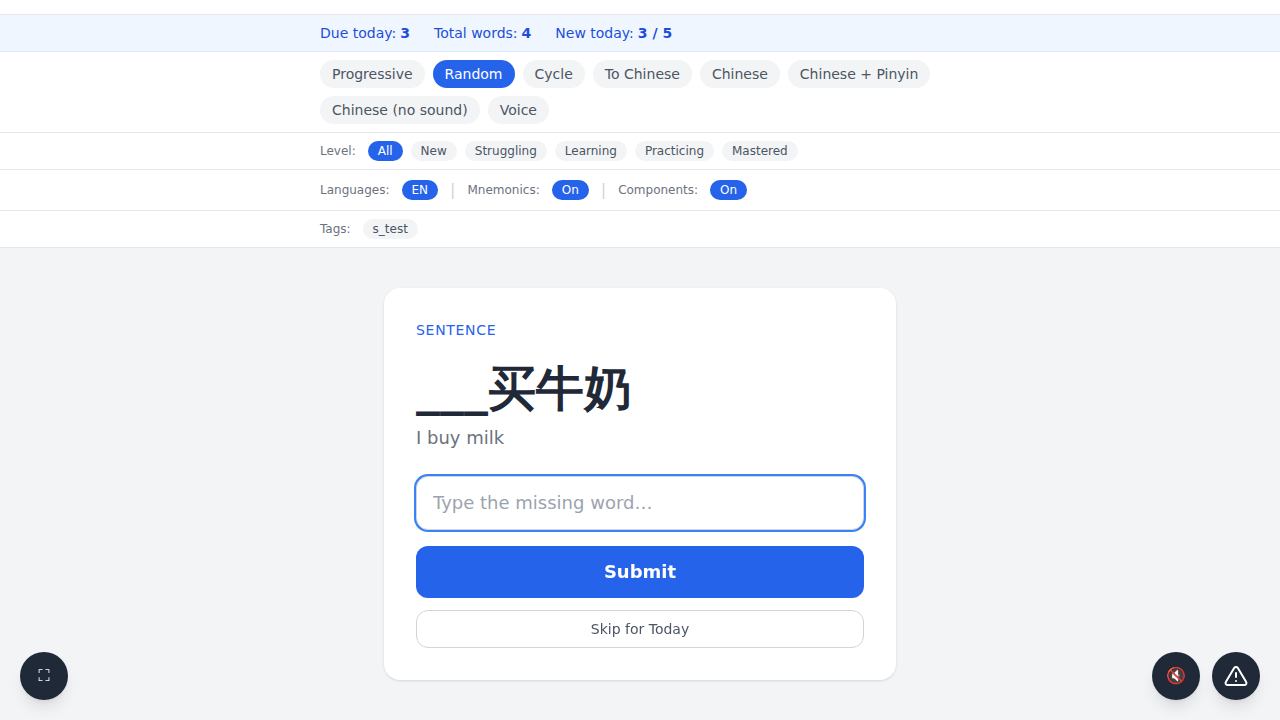
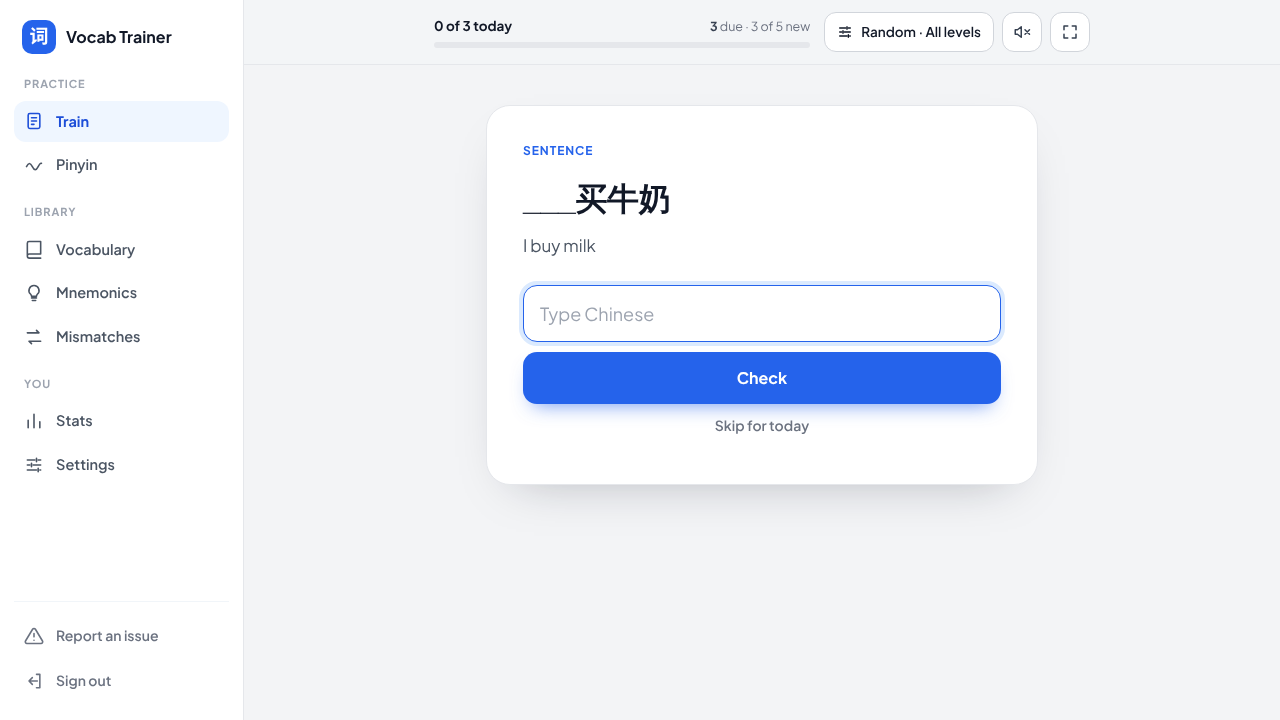
Name the answer language on sentence cards (#621)
Sentence cards get answer_lang (zh, or the language of the blanked
translation), and the input placeholder says Type Chinese / English /
German instead of the generic "Type the missing word".

Claude-Session: https://claude.ai/code/session_01FXi8bULmnW4PmajAHiKwyw

diff --git a/service/frontend/train-card.test.js b/service/frontend/train-card.test.js
@@ -2,7 +2,8 @@ import { describe, it, expect, vi, beforeEach, afterEach } from 'vitest';
 
 // ── Answer input placeholder ───────────────────────────────────────────────
 // Mirrors the i18n key selection in showCard(): sentence fill-in-the-blank
-// cards get a placeholder telling the user to type the missing word;
+// cards name the language of the blanked side, sent as answer_lang (issue
+// #621), and fall back to "type the missing word" without one;
 // transl_to_zh word cards ask for the Chinese; other word cards and component
 // cards name the answer language (issue #542); hmm cards keep the generic
 // answer placeholder.
@@ -14,7 +15,10 @@ function translPlaceholderKey(answerLang) {
 }
 
 function placeholderKeyForCard(cardType, mode, answerLang) {
-  if (cardType === 'sentence') return 'card.placeholderSentence';
+  if (cardType === 'sentence') {
+    if (answerLang === 'zh') return 'card.placeholderZh';
+    return ANSWER_LANG_PLACEHOLDERS.includes(answerLang) ? translPlaceholderKey(answerLang) : 'card.placeholderSentence';
+  }
   if (!cardType && (mode === 'transl_to_zh' || mode === 'voice_to_zh')) return 'card.placeholderZh';
   if (!cardType || cardType === 'component') return translPlaceholderKey(answerLang);
   return 'card.placeholder';
@@ -34,8 +38,18 @@ describe('translPlaceholderKey', () => {
 });
 
 describe('placeholderKeyForCard', () => {
-  it('uses the sentence-specific placeholder key for sentence cards', () => {
-    expect(placeholderKeyForCard('sentence', 'zh_to_transl', 'de')).toBe('card.placeholderSentence');
+  it('asks for the Chinese on sentence cards with a Chinese blank (issue #621)', () => {
+    expect(placeholderKeyForCard('sentence', 'transl_to_zh', 'zh')).toBe('card.placeholderZh');
+  });
+
+  it('names the language of the blanked translation on sentence cards (issue #621)', () => {
+    expect(placeholderKeyForCard('sentence', 'zh_to_transl', 'de')).toBe('card.placeholderTransl.de');
+    expect(placeholderKeyForCard('sentence', 'zh_to_transl', 'en')).toBe('card.placeholderTransl.en');
+  });
+
+  it('falls back to "type the missing word" on sentence cards without a known answer language', () => {
+    expect(placeholderKeyForCard('sentence', 'zh_to_transl', undefined)).toBe('card.placeholderSentence');
+    expect(placeholderKeyForCard('sentence', 'zh_to_transl', 'fr')).toBe('card.placeholderSentence');
   });
 
   it('asks for the Chinese on transl_to_zh word cards', () => {

diff --git a/e2e/sentence-blank.spec.js b/e2e/sentence-blank.spec.js
@@ -94,9 +94,9 @@ test.describe('Sentence-blank training mode', () => {
     await expect(page.locator('#sentence-context')).toBeVisible();
     await expect(page.locator('#sentence-context')).toContainText('I buy milk');
     await expect(page.locator('#prompt-word')).toContainText('___');
-    // Issue #445: the shared answer input's placeholder must say "type the
-    // missing word" for sentence-blank cards, not the generic answer prompt.
-    await expect(page.locator('#answer-input')).toHaveAttribute('placeholder', 'Type the missing word…');
+    // Issue #621: the placeholder names the language to type (here the zh
+    // sentence has the blank).
+    await expect(page.locator('#answer-input')).toHaveAttribute('placeholder', 'Type Chinese');
     await captureForPR(page, 'sentence-placeholder');
 
     await page.locator('#answer-input').fill(correctZh);
@@ -104,6 +104,25 @@ test.describe('Sentence-blank training mode', () => {
 
     await expect(page.locator('#result-icon')).toBeVisible({ timeout: 8_000 });
     await expect(page.locator('#result-icon')).toHaveText('Correct');
+  });
+
+  test('a translation blank names the language of the blanked sentence (issue #621)', async ({ page }) => {
+    const { idToZh } = await registerUserWithSentence(page);
+    const wordID = Number(Object.keys(idToZh).find(id => idToZh[id] === '买'));
+    await page.route('**/api/quiz/next*', route => route.fulfill({
+      status: 200,
+      contentType: 'application/json',
+      body: JSON.stringify({
+        card_type: 'sentence', word_id: wordID, mode: 'zh_to_transl', answer_lang: 'de',
+        sentence_blank: 'Ich ___ Milch', sentence_context: '我买牛奶',
+      }),
+    }));
+
+    await page.goto('/train');
+    await expect(page.locator('#card-area')).toBeVisible({ timeout: 12_000 });
+    await expect(page.locator('#prompt-word')).toHaveText('Ich ___ Milch');
+    await expect(page.locator('#answer-input')).toHaveAttribute('placeholder', 'Type German');
+    await captureForPR(page, 'sentence-placeholder-german');
   });
 
   test('a wrong answer to a sentence-blank card shows Wrong and the correct word', async ({ page }) => {

diff --git a/service/frontend/train-card.js b/service/frontend/train-card.js
@@ -492,8 +492,12 @@ function translPlaceholderKey(answerLang) {
   return ANSWER_LANG_PLACEHOLDERS.includes(answerLang) ? `card.placeholderTransl.${answerLang}` : 'card.placeholder';
 }
 
+// Sentence cards name the language of the blanked side (issue #621).
 function placeholderKeyForCard(cardType, mode, answerLang) {
-  if (cardType === 'sentence') return 'card.placeholderSentence';
+  if (cardType === 'sentence') {
+    if (answerLang === 'zh') return 'card.placeholderZh';
+    return ANSWER_LANG_PLACEHOLDERS.includes(answerLang) ? translPlaceholderKey(answerLang) : 'card.placeholderSentence';
+  }
   if (!cardType && isZhAnswerMode(mode)) return 'card.placeholderZh';
   if (!cardType || cardType === 'component') return translPlaceholderKey(answerLang);
   return 'card.placeholder';
@@ -506,7 +510,8 @@ function currentAnswerLang() {
 
 function showCard() {
   show('card-area');
-  $('answer-input').placeholder = t(placeholderKeyForCard(currentCard.card_type, currentCard.mode, currentAnswerLang()));
+  const answerLang = currentCard.card_type === 'sentence' ? currentCard.answer_lang : currentAnswerLang();
+  $('answer-input').placeholder = t(placeholderKeyForCard(currentCard.card_type, currentCard.mode, answerLang));
   // Prompt size: Hanzi prompts are larger, sentence prompts smaller.
   const promptEl = $('prompt-word');
   const zhPrompt = currentCard.card_type === 'component' ||

diff --git a/service/db/sentences_test.go b/service/db/sentences_test.go
@@ -295,6 +295,9 @@ func TestNextSentenceBlankCard_ZhBlankDirection(t *testing.T) {
 	if card.SentenceContext != "I buy milk" {
 		t.Errorf("want context %q, got %q", "I buy milk", card.SentenceContext)
 	}
+	if card.AnswerLang != "zh" {
+		t.Errorf("want answer_lang=zh, got %q", card.AnswerLang)
+	}
 	assertFullSentence(t, card, sentence)
 }
 
@@ -349,7 +352,50 @@ func TestNextSentenceBlankCard_TranslationBlankDirection(t *testing.T) {
 	if card.SentenceContext != "我买牛奶" {
 		t.Errorf("want context 我买牛奶, got %q", card.SentenceContext)
 	}
+	if card.AnswerLang != "en" {
+		t.Errorf("want answer_lang=en, got %q", card.AnswerLang)
+	}
 	assertFullSentence(t, card, sentence)
+}
+
+func TestNextSentenceBlankCard_TranslationBlankInSecondLanguage_AnswerLangDE(t *testing.T) {
+	// Issue #621: with EN and DE selected, only the DE translation has the
+	// word, so the card asks for German.
+	s := openTestDB(t)
+	ctx := context.Background()
+	create := func(zh, pinyin string, tr map[string][]string, tags []string) int64 {
+		t.Helper()
+		id, err := s.CreateWord(ctx, testUserID, models.CreateWordRequest{ZhText: zh, Pinyin: pinyin, Translations: tr, Tags: tags})
+		if err != nil {
+			t.Fatalf("create %q: %v", zh, err)
+		}
+		return id
+	}
+	wo := create("我", "wǒ", map[string][]string{"en": {"I"}, "de": {"ich"}}, nil)
+	mai := create("买", "mǎi", map[string][]string{"en": {"buy"}, "de": {"kaufen"}}, nil)
+	niunai := create("牛奶", "niú nǎi", map[string][]string{"en": {"cow's milk"}, "de": {"Milch"}}, nil)
+	create("我买牛奶", "wǒ mǎi niú nǎi", map[string][]string{"en": {"I buy milk"}, "de": {"Ich kaufe Milch"}}, []string{"test_s"})
+
+	now := time.Now().UTC()
+	markReviewed(t, s, wo, 1, 1, now.Add(1*time.Hour))
+	markReviewed(t, s, mai, 1, 1, now.Add(2*time.Hour))
+	markReviewed(t, s, niunai, 10, 10, now.Add(-1*time.Hour))
+
+	cfg := defaultProgCfg()
+	cfg.Mastered = models.ModeZhToTransl
+	card, err := s.NextSentenceBlankCard(ctx, testUserID, cfg, defaultNWCfg(), []string{"en", "de"}, nil)
+	if err != nil {
+		t.Fatal(err)
+	}
+	if card == nil {
+		t.Fatal("expected a card")
+	}
+	if card.SentenceBlank != "Ich kaufe ___" {
+		t.Errorf("want blanked translation 'Ich kaufe ___', got %q", card.SentenceBlank)
+	}
+	if card.AnswerLang != "de" {
+		t.Errorf("want answer_lang=de, got %q", card.AnswerLang)
+	}
 }
 
 func TestNextSentenceBlankCard_TranslationUnsupported_FallsBackToZhBlank(t *testing.T) {

diff --git a/service/db/sentences.go b/service/db/sentences.go
@@ -277,13 +277,16 @@ func (s *Store) NextSentenceBlankCard(ctx context.Context, userID int64, cfg mod
 		mode = sm2.SelectProgressiveMode(progress.TotalCorrect, progress.TotalAttempts, progress.StreakBonus, cfg)
 	}
 
-	var sentenceTransTexts []string
+	var sentenceTransTexts, sentenceTransLangs []string
 	for _, lang := range langs {
 		texts, err := s.getTranslationTextsForZhWord(ctx, match.SentenceID, lang)
 		if err != nil {
 			return nil, err
 		}
 		sentenceTransTexts = append(sentenceTransTexts, texts...)
+		for range texts {
+			sentenceTransLangs = append(sentenceTransLangs, lang)
+		}
 	}
 
 	sentenceTranslation := strings.Join(sentenceTransTexts, " · ")
@@ -294,6 +297,7 @@ func (s *Store) NextSentenceBlankCard(ctx context.Context, userID int64, cfg mod
 			Mode:                models.ModeTranslToZh,
 			SentenceContext:     sentenceTranslation,
 			SentenceBlank:       strings.Replace(match.SentenceText, match.TargetText, sentenceBlankToken, 1),
+			AnswerLang:          "zh",
 			SentenceID:          match.SentenceID,
 			SentenceText:        match.SentenceText,
 			SentencePinyin:      match.SentencePinyin,
@@ -317,7 +321,7 @@ func (s *Store) NextSentenceBlankCard(ctx context.Context, userID int64, cfg mod
 		}
 		wordTransTexts = append(wordTransTexts, texts...)
 	}
-	for _, sentenceTrans := range sentenceTransTexts {
+	for i, sentenceTrans := range sentenceTransTexts {
 		if blanked, ok := locateTranslationBlank(sentenceTrans, wordTransTexts); ok {
 			return &models.QuizCard{
 				CardType:            "sentence",
@@ -325,6 +329,7 @@ func (s *Store) NextSentenceBlankCard(ctx context.Context, userID int64, cfg mod
 				Mode:                mode,
 				SentenceContext:     match.SentenceText,
 				SentenceBlank:       blanked,
+				AnswerLang:          sentenceTransLangs[i],
 				SentenceID:          match.SentenceID,
 				SentenceText:        match.SentenceText,
 				SentencePinyin:      match.SentencePinyin,

diff --git a/service/models/models.go b/service/models/models.go
@@ -260,6 +260,9 @@ type QuizCard struct {
 	// the target word/substring replaced by "___".
 	SentenceContext string `json:"sentence_context,omitempty"`
 	SentenceBlank   string `json:"sentence_blank,omitempty"`
+	// AnswerLang is the language of the blanked side ("zh", or the language
+	// of the translation with the blank) for the input placeholder (#621).
+	AnswerLang string `json:"answer_lang,omitempty"`
 	// SentenceID, SentenceText, SentencePinyin and SentenceTranslation
 	// describe the full sentence (zh word ID, zh text, stored pinyin, joined
 	// translations) for the result screen, whichever side was blanked

diff --git a/docs/features.md b/docs/features.md
@@ -67,7 +67,7 @@ Everything the app does, grouped by area. For how new words and reviews are sche
 - **Bucket growth indicator.** The result screen shows one growth icon (🌰🌱🌿🌳🌸) for each accuracy tier: New, Struggling, Learning, Practicing, or Mastered. The icon marks the current tier of a word, HMM entity, or component, on both correct and wrong answers.
   - **Celebrate bucket changes** is an optional setting, off by default, in Settings → Training Mode → Quiz Display. When a correct answer advances a word's tier, this setting shows a "Level up" screen before the result screen. The old tier's icon turns and fades into the new one in a tile that changes colour, then a ring pulses once. The screen shows the word and the old → new tier chips.
 
-- **Sentence fill-in-the-blank.** An optional training mode, off by default, in Settings → Training Mode → Quiz Display ("Sentence fill-in-the-blank" + a frequency percentage). Tag a zh word with a tag that ends in `_s` (for example `hsk2-1_s`) to mark it as a sentence. The tag is in the same tag group as the list it belongs to (`hsk2-1_s` is in the HSK group), so in a training filter the sentences are an addition to the list (OR), not a restriction (AND). When enabled, the training page occasionally shows one of your sentences with one word blanked out instead of a plain word card — either the Chinese word is blanked (translation shown as context) or a word inside the sentence's translation is blanked (Chinese shown as context), following the same direction logic as progressive mode. A sentence only becomes eligible once every word it contains (punctuation aside — commas, quotation marks, etc. are skipped) has been reviewed at least once, and the app always blanks whichever of those words is next due, so the mode reinforces words you already know in context. Answering updates that word's own SM-2 progress, the same as answering it in a normal quiz card would. The result screen shows the full Chinese sentence above the answer word, with the answer word marked, the sentence pinyin (if the sentence has pinyin), the sentence translation and a speaker button that reads out the sentence. When auto-play is on, the result screen reads out the full sentence. If you type another word with the same meaning, the "Right meaning, other word" screen shows the shared meaning and the other meanings of the blanked word, and lets you type again.
+- **Sentence fill-in-the-blank.** An optional training mode, off by default, in Settings → Training Mode → Quiz Display ("Sentence fill-in-the-blank" + a frequency percentage). Tag a zh word with a tag that ends in `_s` (for example `hsk2-1_s`) to mark it as a sentence. The tag is in the same tag group as the list it belongs to (`hsk2-1_s` is in the HSK group), so in a training filter the sentences are an addition to the list (OR), not a restriction (AND). When enabled, the training page occasionally shows one of your sentences with one word blanked out instead of a plain word card — either the Chinese word is blanked (translation shown as context) or a word inside the sentence's translation is blanked (Chinese shown as context), following the same direction logic as progressive mode. A sentence only becomes eligible once every word it contains (punctuation aside — commas, quotation marks, etc. are skipped) has been reviewed at least once, and the app always blanks whichever of those words is next due, so the mode reinforces words you already know in context. A sentence must have at least two words, so at least one other word always shows next to the blank. If a word's translation is the full sentence translation, the app blanks the Chinese word instead. The answer field tells you the language to type: Chinese, English or German. Answering updates that word's own SM-2 progress, the same as answering it in a normal quiz card would. The result screen shows the full Chinese sentence above the answer word, with the answer word marked, the sentence pinyin (if the sentence has pinyin), the sentence translation and a speaker button that reads out the sentence. When auto-play is on, the result screen reads out the full sentence. If you type another word with the same meaning, the "Right meaning, other word" screen shows the shared meaning and the other meanings of the blanked word, and lets you type again.
 
 - Every Chinese word has a 🔊 read-aloud button. The button plays a cached MP3 file, generated with Microsoft Edge neural TTS, which is built into the binary. If this fails, the button falls back silently to the browser's Web Speech API.
 
